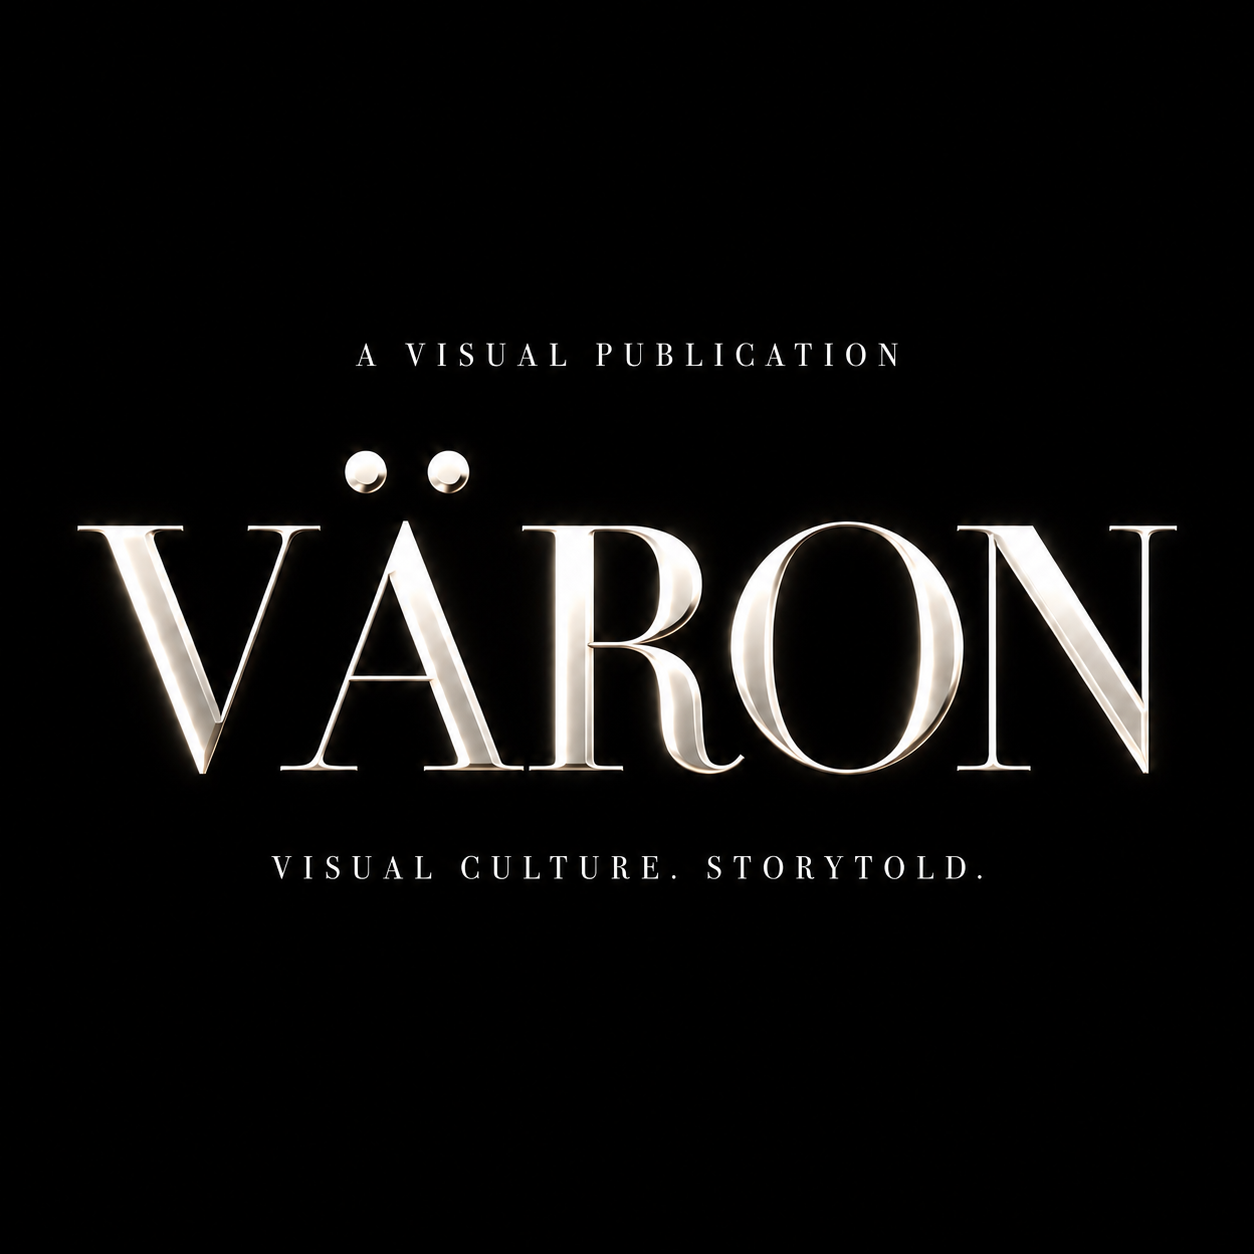
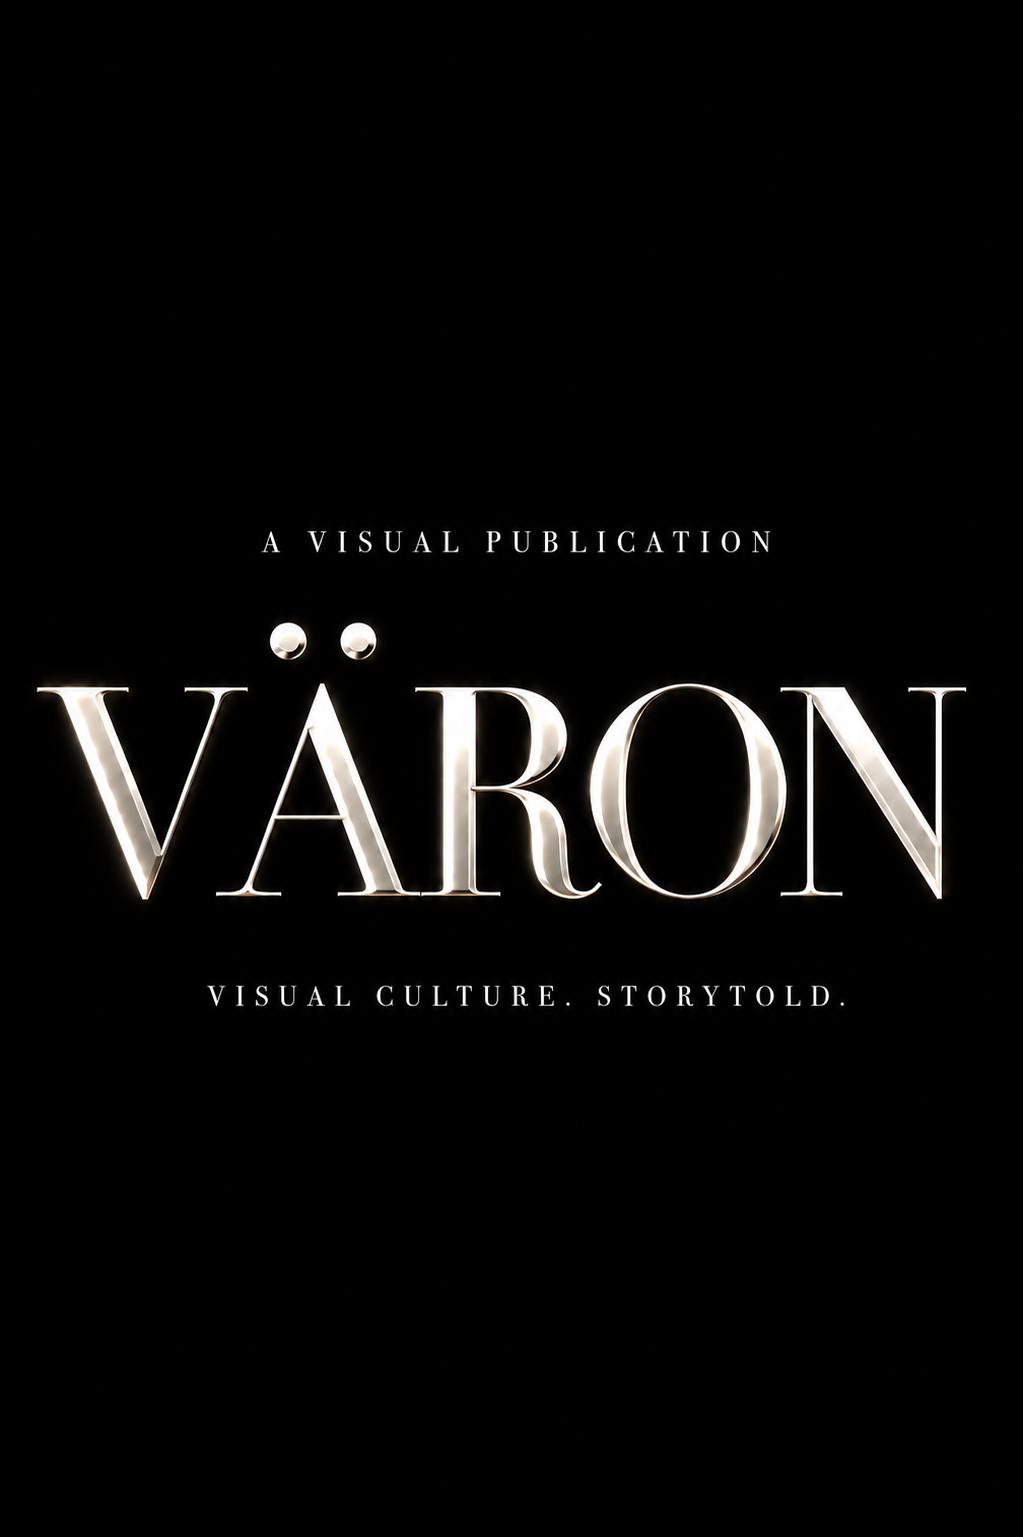
Add files via upload

diff --git a/index.html b/index.html
@@ -9,7 +9,7 @@
 :root{--bg:#050505;--fg:#f4f1eb;--muted:#aaa59d;--line:rgba(244,241,235,.16)}
 *{box-sizing:border-box}html{scroll-behavior:smooth}body{margin:0;background:var(--bg);color:var(--fg);font-family:"DM Sans",Arial,sans-serif}body.locked{overflow:hidden}button,input,textarea{font:inherit}button{cursor:pointer}a{color:inherit;text-decoration:none}
 /* ONE-PAGE HOME */
-.home{position:relative;min-height:100vh;height:100vh;overflow:hidden;background:#050505}.home-slideshow{position:absolute;inset:0;display:grid;grid-template-columns:43% 57%;background:#050505}.home-hero{position:relative;display:flex;align-items:center;justify-content:center;overflow:hidden;background:#050505}.home-hero img{width:100%;height:100%;object-fit:contain;display:block}.home-carousel{position:relative;overflow:hidden;background:#050505;border-left:1px solid rgba(244,241,235,.14)}.home-slide{position:absolute;inset:0;opacity:0;transform:scale(1.025);transition:opacity 1.2s ease,transform 7s ease;pointer-events:none;display:flex;align-items:center;justify-content:center}.home-slide.active{opacity:1;transform:scale(1)}.home-slide img{width:100%;height:100%;object-fit:contain;display:block;filter:none}
+.home{position:relative;min-height:100vh;height:100vh;overflow:hidden;background:#050505}.home-slideshow{position:absolute;inset:0;background:#050505}.home-carousel{position:absolute;inset:0;overflow:hidden;background:#050505}.home-slide{position:absolute;inset:0;opacity:0;transform:scale(1.025);transition:opacity 1.2s ease,transform 7s ease;pointer-events:none;display:flex;align-items:center;justify-content:center}.home-slide.active{opacity:1;transform:scale(1)}.home-slide img{width:100%;height:100%;object-fit:cover;display:block;filter:none}.home-vignette{position:absolute;z-index:5;inset:0;background:radial-gradient(circle at center,rgba(0,0,0,.08) 0%,rgba(0,0,0,.24) 62%,rgba(0,0,0,.58) 100%);pointer-events:none}.home-hero{position:absolute;inset:0;z-index:10;display:flex;align-items:center;justify-content:center;overflow:hidden;pointer-events:none}.home-hero img{width:min(78vw,1100px);height:min(88vh,1500px);object-fit:contain;display:block}
 .nav{position:absolute;z-index:20;top:0;left:0;right:0;height:88px;padding:0 30px;display:flex;align-items:center;justify-content:space-between}.brand{font-family:"Playfair Display",Georgia,serif;font-size:30px;letter-spacing:.05em}.links{display:flex;gap:30px;font-size:10px;letter-spacing:.19em;text-transform:uppercase}.links button{border:0;background:none;color:inherit;padding:14px 0}.links button:hover{opacity:.55}
 .home-bottom{position:absolute;z-index:30;left:30px;right:30px;bottom:28px;display:flex;justify-content:space-between;align-items:end;font-size:8px;letter-spacing:.18em;text-transform:uppercase;color:#d0cbc4}.slide-index{display:flex;gap:9px;align-items:center}.slide-line{width:60px;height:1px;background:rgba(255,255,255,.35)}
 /* PANELS */
@@ -19,14 +19,13 @@
 /* SHOP */
 .shop-panel{padding:7vw 5vw}.shop-head{display:flex;justify-content:space-between;align-items:end;border-bottom:1px solid #1b1b1b;padding-bottom:15px}.shop-head h2{font:400 clamp(50px,7vw,100px)/.9 "Playfair Display",Georgia,serif;margin:0}.shop-grid{display:grid;grid-template-columns:repeat(2,minmax(0,1fr));gap:5vw;margin-top:6vw}.product{min-width:0}.product-img{aspect-ratio:8.5/11;background:#0a0a0a;overflow:hidden}.product-img img{width:100%;height:100%;object-fit:cover;display:block}.product-meta{display:flex;justify-content:space-between;padding-top:13px;font-size:9px;letter-spacing:.14em;text-transform:uppercase}.coming{display:flex;align-items:center;justify-content:center;height:100%;font:400 clamp(35px,5vw,75px)/.9 "Playfair Display",Georgia,serif;text-align:center;padding:30px}
 .close{border:0;background:none;color:#fff;font-size:26px;line-height:1}.success{display:none;margin-top:12px;font-size:9px;letter-spacing:.12em;text-transform:uppercase;color:#bbb}.success.show{display:block}
-@media(max-width:800px){.home{height:100svh}.home-slideshow{grid-template-columns:1fr}.home-hero{position:absolute;inset:0;z-index:1}.home-carousel{position:absolute;right:0;top:0;bottom:0;width:62%;z-index:2;border-left:1px solid rgba(244,241,235,.18);background:rgba(0,0,0,.06)}.home-carousel .home-slide img{object-fit:contain}.nav{height:70px;padding:0 16px}.brand{font-size:24px}.links{gap:12px;font-size:8px}.links button{padding:10px 0}.home-bottom{left:16px;right:16px;bottom:18px}.panel-top{height:62px;flex-basis:62px;padding:0 12px}.book-panel{display:block;min-height:auto}.book-copy{border-right:0;border-bottom:1px solid #1b1b1b;padding:15vh 20px 10vh}.book-form-wrap{padding:10vh 20px}.shop-panel{padding:14vh 20px 10vh}.shop-grid{grid-template-columns:1fr;gap:12vh}.form input,.form textarea{font-size:16px}}
+@media(max-width:800px){.home{height:100svh}.home-slideshow{inset:0}.home-carousel{position:absolute;inset:0;width:100%;z-index:1;border-left:0;background:#050505}.home-carousel .home-slide img{object-fit:cover}.home-hero{position:absolute;inset:0;z-index:10}.home-hero img{width:96vw;height:92svh;object-fit:contain}.nav{height:70px;padding:0 16px}.brand{font-size:24px}.links{gap:12px;font-size:8px}.links button{padding:10px 0}.home-bottom{left:16px;right:16px;bottom:18px}.panel-top{height:62px;flex-basis:62px;padding:0 12px}.book-panel{display:block;min-height:auto}.book-copy{border-right:0;border-bottom:1px solid #1b1b1b;padding:15vh 20px 10vh}.book-form-wrap{padding:10vh 20px}.shop-panel{padding:14vh 20px 10vh}.shop-grid{grid-template-columns:1fr;gap:12vh}.form input,.form textarea{font-size:16px}}
 @media(prefers-reduced-motion:reduce){html{scroll-behavior:auto}.home-slide{transition:none}.home-slide.active{transform:none}}
 </style>
 </head>
 <body>
 <main class="home" id="home">
   <div class="home-slideshow" aria-hidden="true">
-    <div class="home-hero"><img src="assets/varon-homepage.jpg" alt="VÄRON — A Visual Publication"></div>
     <div class="home-carousel">
       <div class="home-slide active"><img src="assets/carousel/slide01.png" alt="VÄRON editorial photograph 01"></div>
       <div class="home-slide"><img src="assets/carousel/slide02.png" alt="VÄRON editorial photograph 02"></div>
@@ -41,6 +40,7 @@
       <div class="home-slide"><img src="assets/carousel/slide11.png" alt="VÄRON editorial photograph 11"></div>
     </div>
   </div>
+  <div class="home-hero"><img src="assets/varon-wording-overlay.png" alt="VÄRON — A Visual Publication — Visual Culture. Storytold."></div>
   <nav class="nav" aria-label="Primary">
     <a class="brand" href="#home">VÄRON</a>
     <div class="links">
